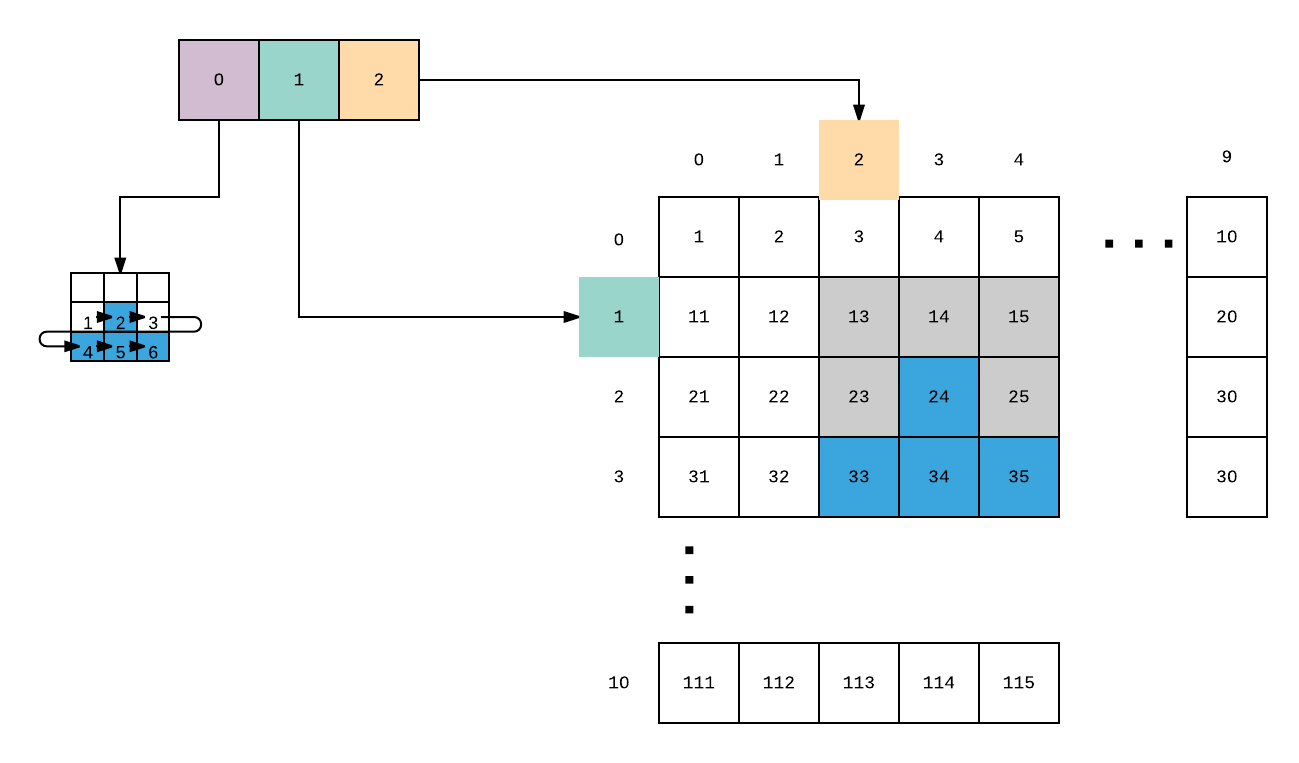
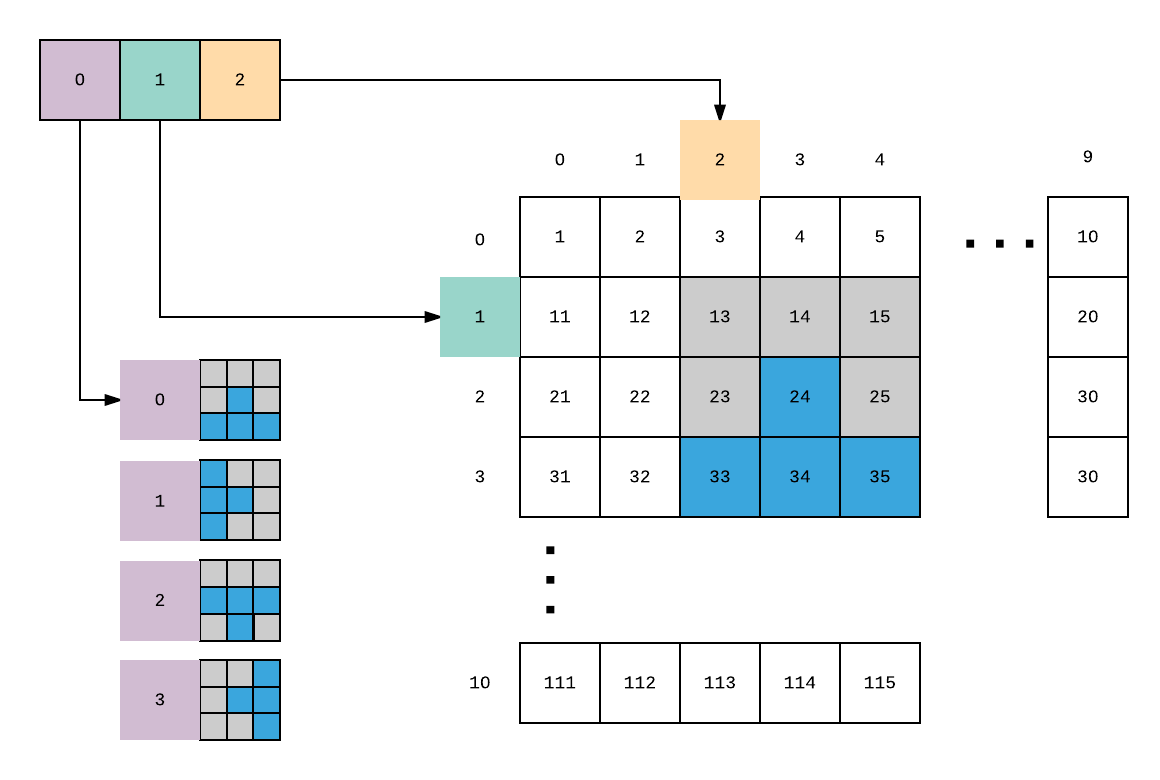
make some things clearer

diff --git a/_posts/2016-10-22-shenzhen-io-tetris.md b/_posts/2016-10-22-shenzhen-io-tetris.md
@@ -27,7 +27,7 @@ Phew! Now, let me ruin the pace we've set by explaining everything in excruciati
 
 ## Major challenge: storing more than one anything
 
-Processors have only one working register: `acc`. The larger ones add `dat`, which can only be set with `mov`. That means to modify `dat`, you must clobber `acc`, so even the big processors can only effectively store a single value.
+Processors have only one working register: `acc`. The larger ones add `dat`, which can only be set with `mov`. That means to perform operations on the value of `dat`, you must clobber `acc`, so even the big processors can only effectively store a single value.
 
 ```nasm
 mov dat acc
@@ -43,9 +43,9 @@ A falling tetris piece has three values that change while it's falling: the colu
 
 There are only 4 possible rotations for a piece, so that's easy to fit in a digit. The default LCD matrix is 10x12, so X already fits in a digit, and Y can fit in a digit if we give up the bottom two rows.
 
-Thus we can store our whole state in one register: the first digit is the rotation (0-3), the second digit is the row (0-9), and the third digit is the column (0-9).
+Thus we can store our whole state in one register: the left digit is the rotation (0-3), the middle digit is the row (0-9), and the right digit is the column (0-9).
 
-To move a piece right or left we just add or subtract 1, to move it up and down we add or subtract 10, and to rotate it we add or subtract 100.
+To move a piece right or left we just `add 1` or `sub 1`, to move it down we `add 10`, and to rotate it we `add 100`.
 
 To convert this number to a cell on the matrix, we remove the rotation (`dst 2 0`) and `add 1`.
 
@@ -57,7 +57,7 @@ We can represent all but the line piece with 6 bits. Using 1 for "on" and 0 for 
 
 [![Storing pieces][2]][2]
 
-Notice how many pieces share a row with another piece. This lets us squish them together when we store them in a ROM chip. This did not end up being useful, but it is neat.
+Notice how most pieces share a row with another piece. This lets us squish them together when we store them in a ROM chip. This did not end up being useful, but it is neat.
 
 We can step through these bits different ways to render different rotations:
 
@@ -77,7 +77,7 @@ If we then give up a column on the board, each cell can store a whole row. This 
 
 There's no `div` instruction, but we can divide a single digit by 3 with `mul 34` and then `dgt 2`.
 
-To convert the digit 0-7 into its component binary bits, we can multiply by 125. A set bit is indicated by a digit greater than 3 in the result.
+To convert the digit 0-7 into its component binary bits, we can multiply by 125. A set bit is indicated by a digit greater than 3 in the result. Since it is not any more expensive for callers to `tgt reg 3` than `teq reg 0`, we don't need to interpret it here.
 
 ## Putting it all together
 
